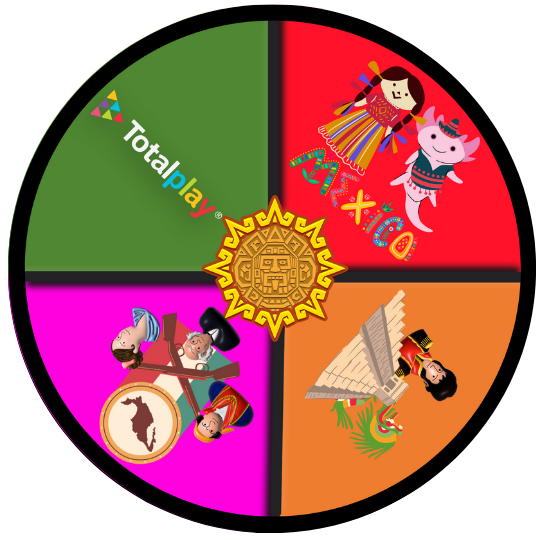
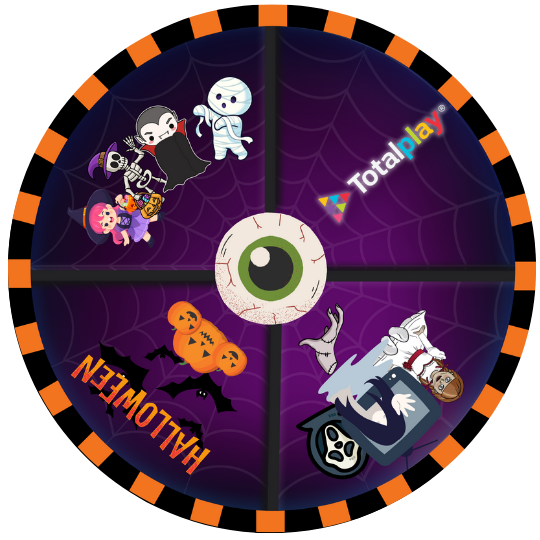
first commit

diff --git a/juegos/juego-6/js/preguntas.js b/juegos/juego-6/js/preguntas.js
@@ -1,94 +1,94 @@
-  //Define the name of your categories
+ //Define the name of your categories
 
-  var categoryOne = 'Servicio Totalplay'
-  var categoryTwo = 'Independencia de Mexico'
-  var categoryThree = 'Historia de México'
-  var categoryFour = 'Cultura General de Mexico'
+  var categoryOne = 'Personajes'
+  var categoryTwo = 'Cultura Popular'
+  var categoryThree = 'Series y Películas'
+  var categoryFour = 'Servicio Totalplay'
   
 
 
 
 
  let preguntas = {
-    'Independencia de Mexico': [
+    'Cultura Popular': [
         {
-            pregunta: '¿Cuándo fue el inicio de la Independencia de México?',
-            respuestas: ['a) 14 septiembre 1810', 'b) 16 septiembre 1810', 'c) 16 septiembre 1710'],
+            pregunta: '¿Qué día se celebra Halloween?',
+            respuestas: ['a) 2 de noviembre', 'b) 31 de octubre', 'c) 1 de noviembre'],
             respuestaCorrecta: 1
         },
         {
-            pregunta: '¿Lugar en donde el cura Miguel Hidalgo y Costilla dio el Grito de Independencia?',
-            respuestas: ['a) Dolores, Hidalgo', 'b) El Zócalo', 'c) Cholula, Puebla'],
+            pregunta: '¿Cuál de estas no es una decoración tradicional de Halloween?',
+            respuestas: ['a) Guirnalda', 'b) Velas', 'c) Esqueleto'],
             respuestaCorrecta: 0
         },
         {
-            pregunta: '¿Por qué los criollos se reunían en secreto?',
-            respuestas: ['a) Por represión', 'b) Para platicar', 'c) Para celebrar'],
-            respuestaCorrecta: 0
+            pregunta: '¿En que país se originó la celebración de Halloween?',
+            respuestas: ['a) Estados Unidos', 'b) México', 'c) Inglaterra'],
+            respuestaCorrecta: 2
         },
         {
-            pregunta: '¿Quién es el siervo de la nación?',
-            respuestas: ['a) José María Morelos y Pavón', 'b) Miguel Hidalgo', 'c) Venustiano Carranza'],
-            respuestaCorrecta: 0
+            pregunta: '¿En qué animal supuestamente se pueden convertir los vampiros?',
+            respuestas: ['a) Delfín', 'b) León', 'c) Murciélago'],
+            respuestaCorrecta: 2
         },
         {
-            pregunta: '¿Cuál era la imagen del estandarte del cura Miguel Hidalgo?',
-            respuestas: ['a) La Virgen de Fátima', 'b) La Virgen de Guadalupe', 'c) Ninguna de las anteriores'],
+            pregunta: '¿Qué significa la palabra "Halloween"?',
+            respuestas: ['a) Noche de miedo', 'b) Noche de los santos', 'c) Día del caramelo'],
             respuestaCorrecta: 1
         }
     ],
-    'Historia de México': [
+    'Series y Películas': [
         {
-            pregunta: '¿De dónde provenían los aztecas, también conocidos como mexicas?',
-            respuestas: ['a) Tulum', 'b) Aztlán', 'c) Caribe'],
+            pregunta: '¿Qué serie de ciencia ficción de Netflix está ambientada en la ciudad ficticia de Hawkins?',
+            respuestas: ['a) Los locos Adams', 'b) Stranger Things', 'c) Tha Walking Dead'],
             respuestaCorrecta: 1
         },
         {
-            pregunta: '¿A cuál cultura se le conoce como la "madre de las civilizaciones mesoamericanas"?',
-            respuestas: ['a) Olmeca', 'b) Chichimeca', 'c) Mexica'],
+            pregunta: '¿Miércoles Addams es qué miembro de la familia Addams?',
+            respuestas: ['a) Hija', 'b) Madre', 'c) Padre'],
             respuestaCorrecta: 0
         },
         {
-            pregunta: 'El presidente que nacionalizó la industria petrolera en México fue:',
-            respuestas: ['a) Lázaro Cárdenas', 'b) Venustiano Carranza', 'c) Benito Juarez'],
+            pregunta: '¿Cómo se llama el muñeco poseído por un demonio en la franquicia El Conjuro?',
+            respuestas: ['a) Anabelle', 'b) El exorcista', 'c) El aro'],
             respuestaCorrecta: 0
         },
         {
-            pregunta: '¿Qué se celebra el cinco de mayo en México?',
-            respuestas: ['a) Independencia de México', 'b) Revolución Mexicana', 'c) La victoria de la Batalla de Puebla vs el ejército francés'],
-            respuestaCorrecta: 2
+            pregunta: '¿Qué película de 1976 se considera una de las primeras películas importantes del subgénero?',
+            respuestas: ['a) El Exorcista', 'b) El presagio', 'c) La semilla del diablo'],
+            respuestaCorrecta: 1
         },
         {
-            pregunta: '¿En que año comenzó la Revolución Mexicana?',
-            respuestas: ['a) 1810', 'b) 1910', 'c) 1519'],
+            pregunta: 'De todas estas películas, ¿cuál no está relacionada con la posesión demoníaca?',
+            respuestas: ['a) La Monja', 'b) Cloverfield', 'c) Actividad Paranormal'],
             respuestaCorrecta: 1
         }
     ],
-    'Cultura General de Mexico': [
+    'Personajes': [
         {
-            pregunta: '¿Cuál es el nombre oficial y constitucional de México?',
-            respuestas: ['a) Estados Unidos Mexicanos', 'b) Imperio Mexicano', 'c) Virreinato de Mexico'],
-            respuestaCorrecta: 0
-        },
-        {
-            pregunta: '¿Cómo se llaman el río que divide la frontera territorial entre México y Estados Unidos?',
-            respuestas: ['a) Río Grande', 'b) Río Hondo', 'c) Río Bravo'],
-            respuestaCorrecta: 2
-        },
-        {
-            pregunta: '¿En cuántas ocasiones ha sido México el país anfitrión de la Copa Mundial de Fútbol?',
-            respuestas: ['a) Una, en 1982', 'b) Dos, en 1970 y 1986', 'c) Tres, en 1962, 1970 y 1982'],
+            pregunta: '¿Qué personaje de Halloween está hecho de huesos?',
+            respuestas: ['a) Fantasma', 'b) Esqueleto', 'c) Vampiro'],
             respuestaCorrecta: 1
         },
         {
-            pregunta: 'La "noche triste" es el nombre que se le da a:',
-            respuestas: ['a) Al fusilamiento del archiduque Maximiliano de Habsburgo', 'b) A la captura de Antonio López de Santa Anna', 'c) La derrota de Hernán Cortes vs los Mexicas'],
-            respuestaCorrecta: 2
+            pregunta: '¿Dónde duermen los vampiros?',
+            respuestas: ['a) En un ataúd', 'b) En su cama', 'c) En el parque'],
+            respuestaCorrecta: 0
         },
         {
-            pregunta: 'Esta película mexicana fue la ganadora del premio Óscar como mejor película internacional en el año 2019:',
-            respuestas: ['a) Roma', 'b) El crimen del padre Amaro', 'c) Amores perros'],
+            pregunta: '¿Qué animal es el mejor amigo de una bruja?',
+            respuestas: ['a) Un gato negro', 'b) Un ajolote', 'c) Una ballena'],
             respuestaCorrecta: 0
+        },
+        {
+            pregunta: '¿Dónde se originaron las momias reales?',
+            respuestas: ['a) Antiguo Egipto', 'b) Tulum', 'c) Australia'],
+            respuestaCorrecta: 0
+        },
+        {
+            pregunta: '¿Cuál es el disfraz de Halloween más popular en EE.UU. según Google?',
+            respuestas: ['a) Peter Pan', 'b) Bruja', 'c) Payaso'],
+            respuestaCorrecta: 1
         }
     ],
     'Servicio Totalplay': [
@@ -114,3 +114,4 @@
         }
     ]
 };
+

diff --git a/juegos/juego-6/js/script.js b/juegos/juego-6/js/script.js
@@ -71,13 +71,13 @@ document.addEventListener('DOMContentLoaded', (event) => {
   function mostrarMensajeFinal() {
     let mensaje = '';
     if (puntuacion <= 25000) {
-      mensaje = 'PRINCIPIANTE. Disfrutas de aprender sobre la historia de México. ¡Sigue jugando!';
+      mensaje = 'PRINCIPIANTE. Disfrutas de los temas de terror y suspenso. ¡Sigue jugando!';
     } else if (puntuacion <= 50000) {
-      mensaje = 'INTERMEDIO. Sabes lo básico de algunos temas de la independencia de México. Sigue participando e incrementa tus conocimientos.';
+      mensaje = 'INTERMEDIO. Sabes lo básico sobre temas terror y suspenso. Sigue participando e incrementa tus conocimientos.';
     } else if (puntuacion <= 75000) {
-      mensaje = 'AVANZADO. Tienes un buen conocimiento de diversos temas de México. Estás muy cerca de ser un experto';
+      mensaje = 'AVANZADO. Tienes un buen conocimiento de temas de terror, suspenso y Halloween. Estás muy cerca de ser un experto';
     } else {
-      mensaje = 'EXPERTO. Eres un amplio conocedor de temas de México y su independencia, y no solo de lo “popular” ¡Felicidades! Te esperamos en la siguiente trivia';
+      mensaje = 'EXPERTO. Eres un amplio conocedor de temas de terror y suspenso, no solo de lo “popular” ¡Felicidades! Te esperamos en la siguiente trivia';
     }
     document.querySelector('#contenedor-preguntas').innerHTML = 'Juego Finalizado<br>' + mensaje;
   }

diff --git a/dashboard.php b/dashboard.php
@@ -174,7 +174,7 @@ $conexion->close();
 <!-- Trivia-Game-Principal -->
 <section class="trivia-game-principal">
     <div class="container-titulo-trivia">
-        <h1>México y su cultura</h1>
+        <h1>Trivia Halloween</h1>
         <p>Juega, diviértete y gana</p>
     </div>
 </section>
@@ -183,7 +183,7 @@ $conexion->close();
     <div class="container-principal-game">
 
         <div class="container-principal-game-image">
-            <img src="img/juegos/portada/sept.jpg" alt="">
+            <img src="img/juegos/portada/padre.jpg" alt="">
         </div>
 
         <div class="container-informacion-principal-game">
